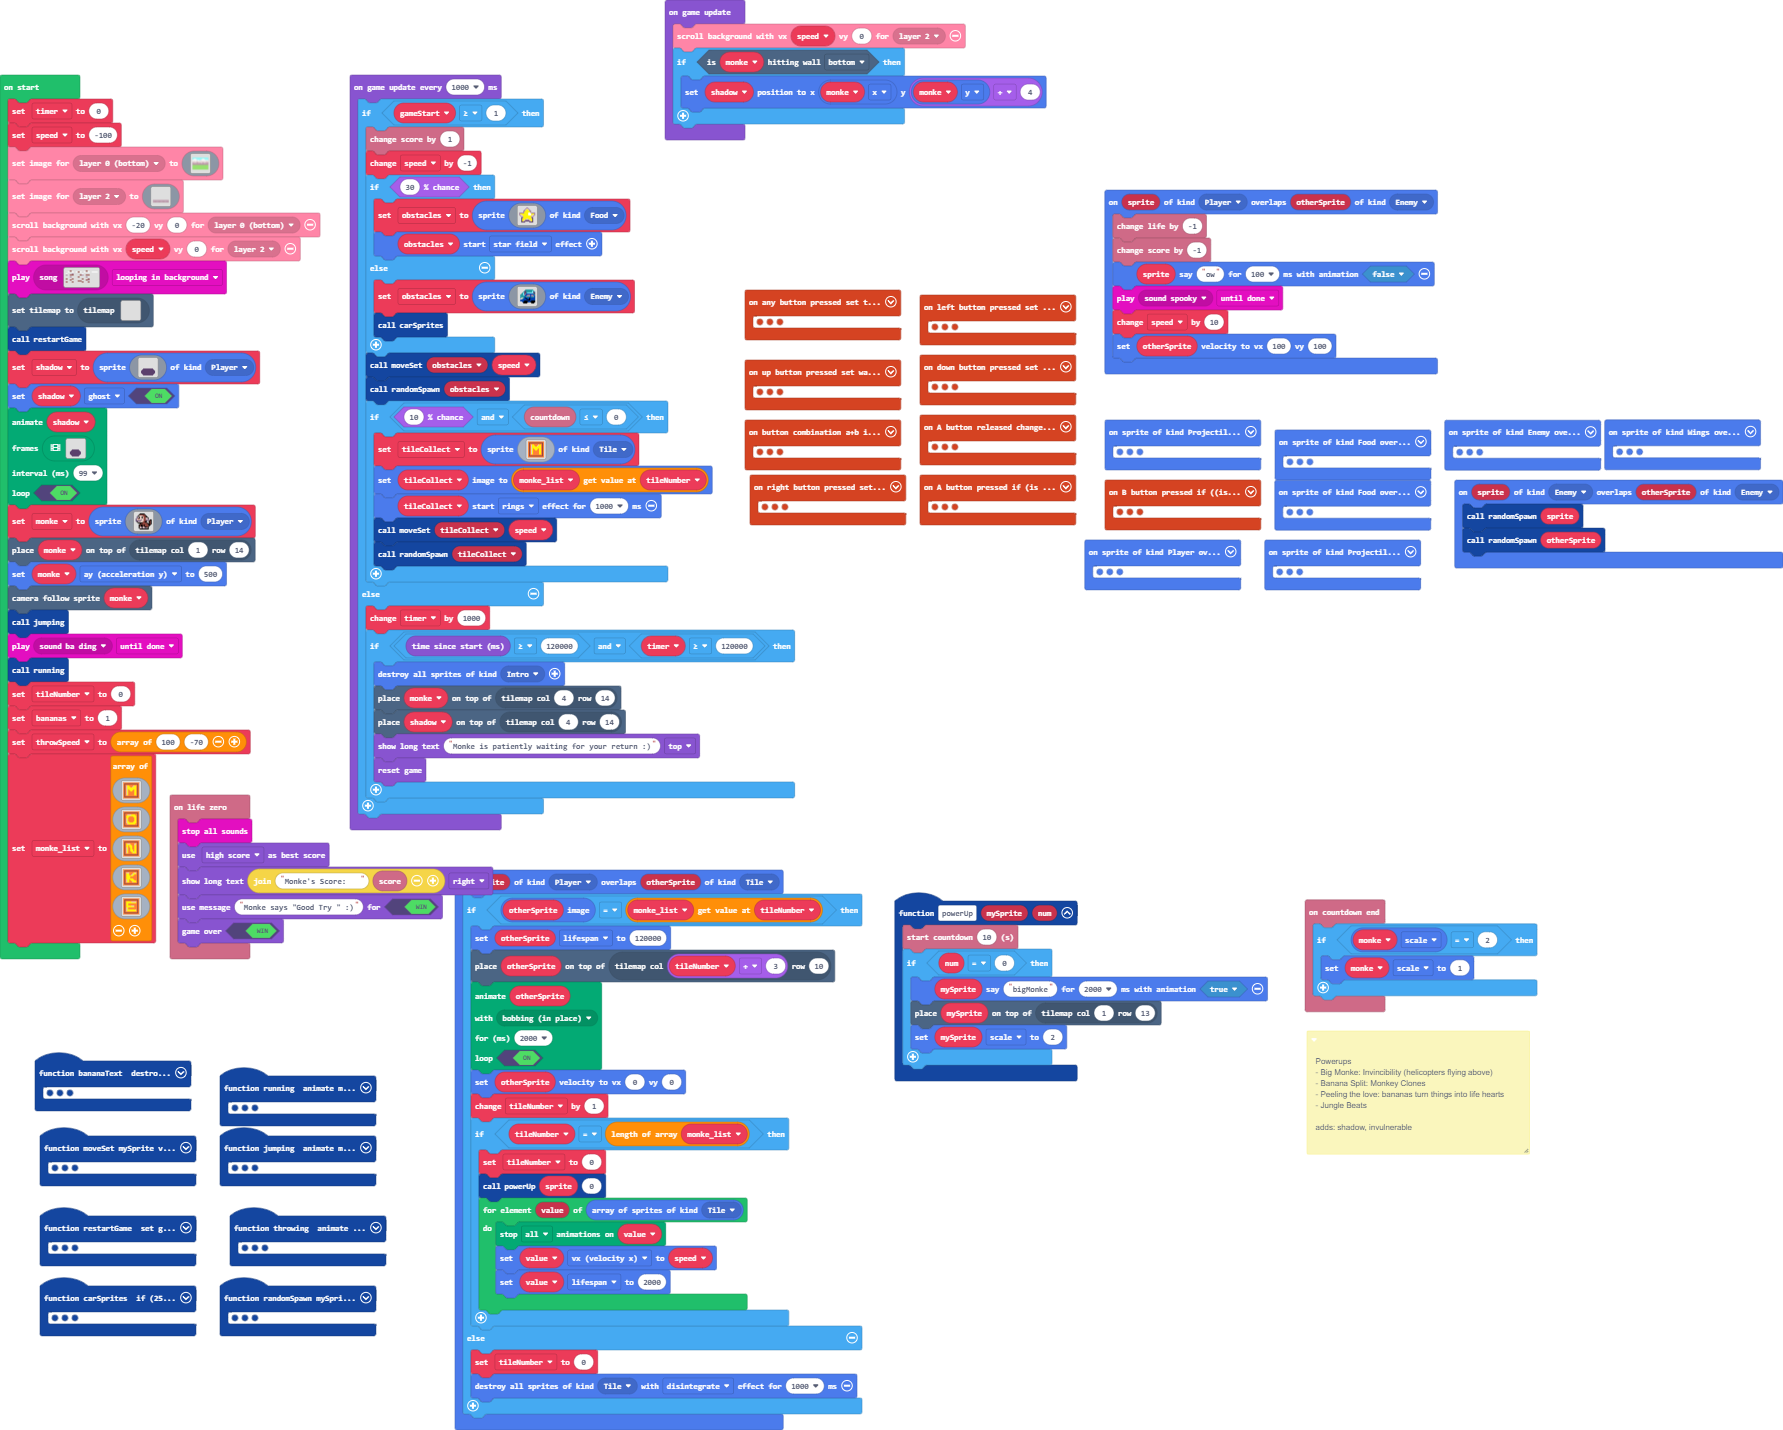
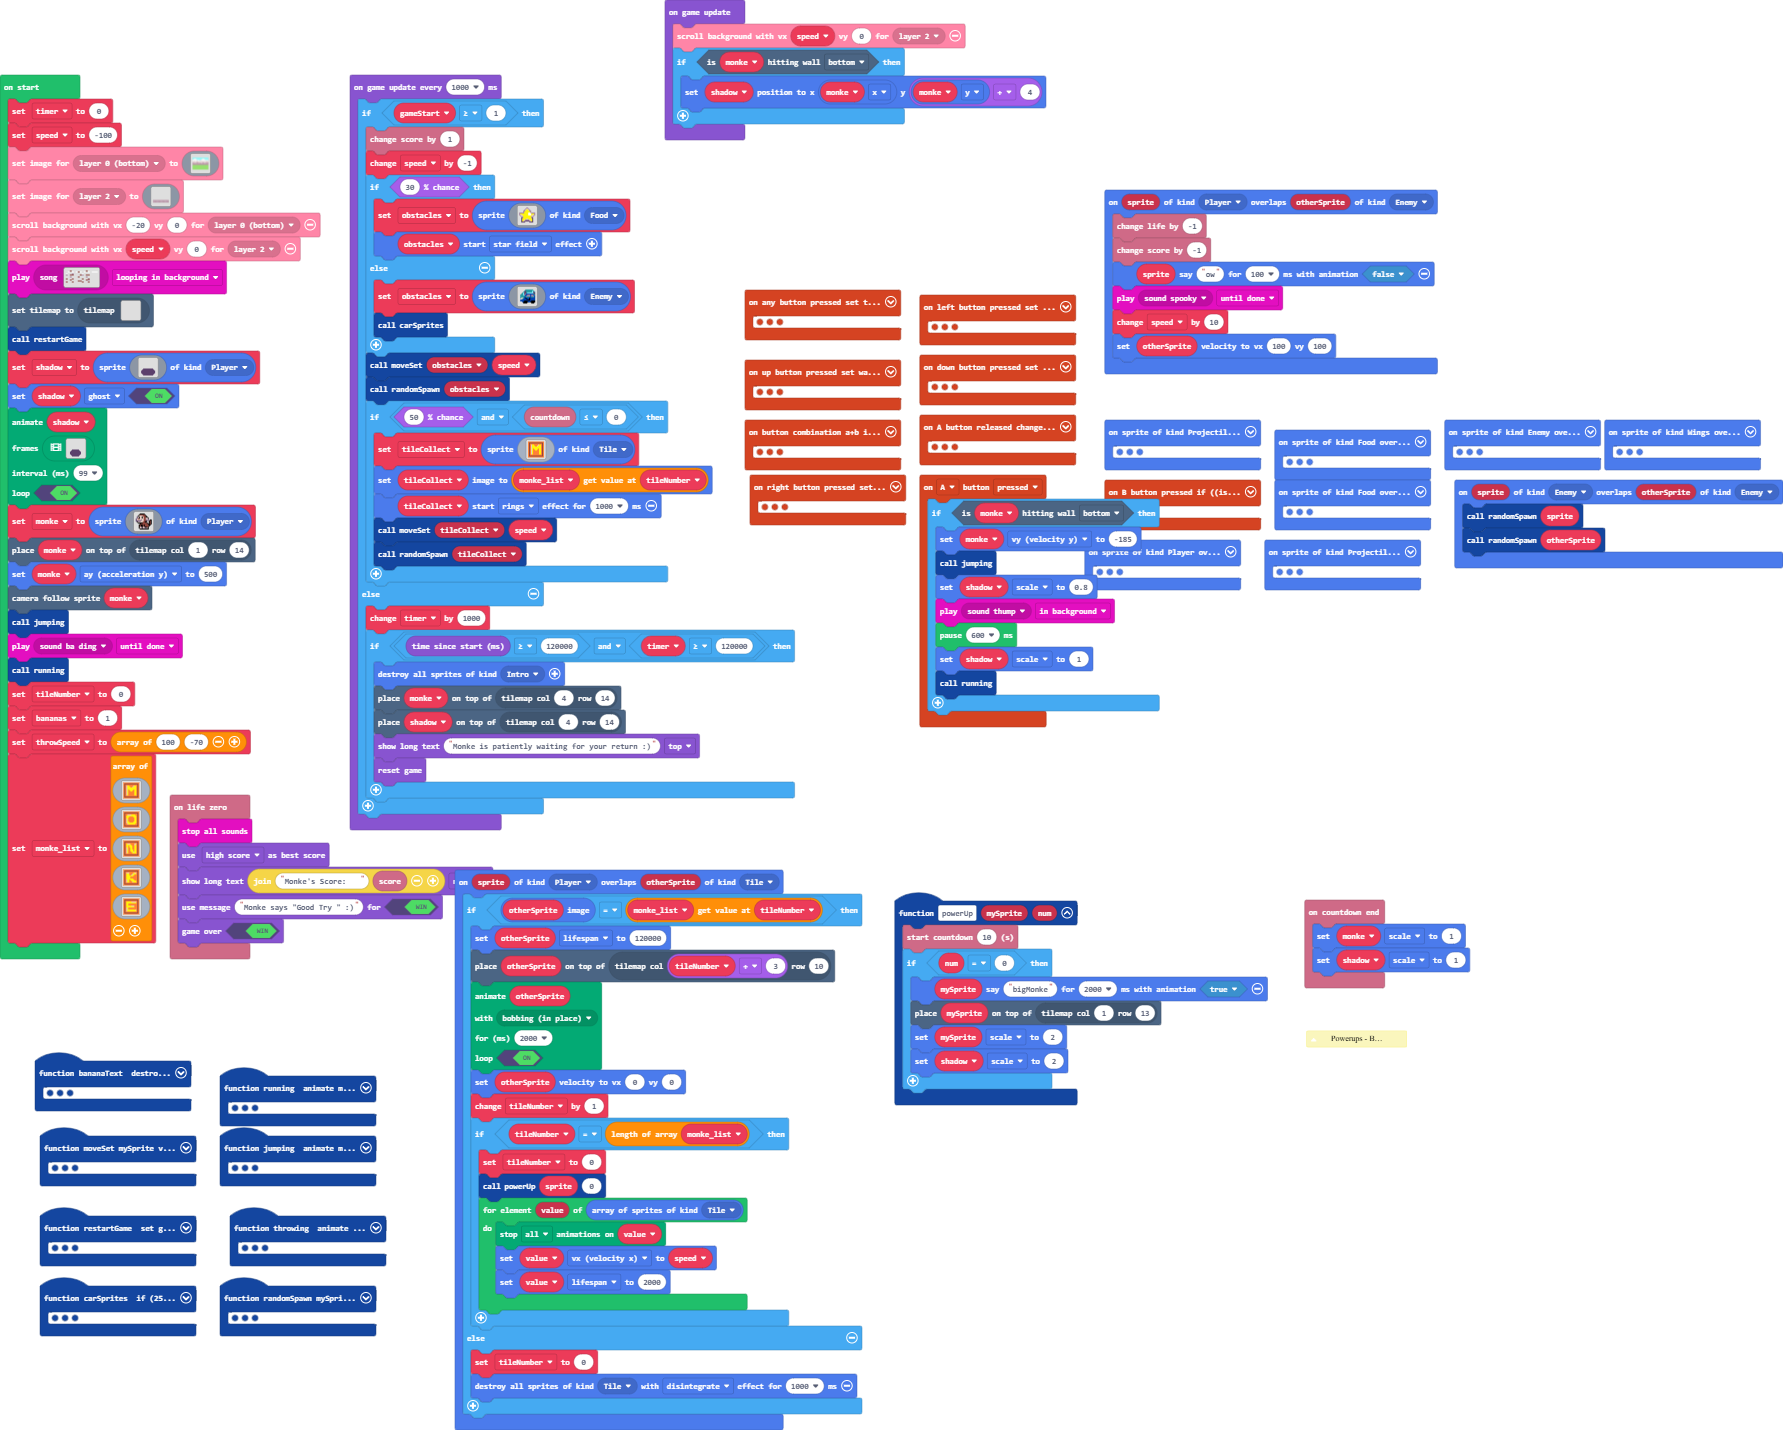
big scale not done

diff --git a/main.ts b/main.ts
@@ -195,6 +195,17 @@ function jumping () {
     false
     )
 }
+controller.A.onEvent(ControllerButtonEvent.Pressed, function () {
+    if (monke.isHittingTile(CollisionDirection.Bottom)) {
+        monke.vy = -185
+        jumping()
+        shadow.scale = 0.8
+        music.play(music.melodyPlayable(music.thump), music.PlaybackMode.InBackground)
+        pause(600)
+        shadow.scale = 1
+        running()
+    }
+})
 function carSprites () {
     if (Math.percentChance(25)) {
         animation.runImageAnimation(
@@ -650,9 +661,8 @@ function moveSet (mySprite: Sprite, velocity: number) {
     mySprite.lifespan = 3000
 }
 info.onCountdownEnd(function () {
-    if (monke.scale == 2) {
-        monke.scale = 1
-    }
+    monke.scale = 1
+    shadow.scale = 1
 })
 sprites.onOverlap(SpriteKind.Projectile, SpriteKind.Intro, function (sprite, otherSprite) {
     otherSprite.startEffect(effects.confetti, 100)
@@ -736,21 +746,11 @@ function powerUp (mySprite: Sprite, num: number) {
         mySprite.sayText("bigMonke", 2000, true)
         tiles.placeOnTile(mySprite, tiles.getTileLocation(1, 13))
         mySprite.scale = 2
+        shadow.scale = 2
     }
 }
 controller.right.onEvent(ControllerButtonEvent.Pressed, function () {
     throwSpeed = [100, -70]
-})
-controller.A.onEvent(ControllerButtonEvent.Pressed, function () {
-    if (monke.isHittingTile(CollisionDirection.Bottom)) {
-        monke.vy = -185
-        jumping()
-        shadow.scale = 0.8
-        music.play(music.melodyPlayable(music.thump), music.PlaybackMode.InBackground)
-        pause(600)
-        shadow.scale = 1
-        running()
-    }
 })
 sprites.onOverlap(SpriteKind.Wings, SpriteKind.Wings, function (sprite, otherSprite) {
     sprites.destroy(otherSprite)
@@ -1686,7 +1686,7 @@ game.onUpdateInterval(1000, function () {
         }
         moveSet(obstacles, speed)
         randomSpawn(obstacles)
-        if (Math.percentChance(10) && info.countdown() <= 0) {
+        if (Math.percentChance(50) && info.countdown() <= 0) {
             tileCollect = sprites.create(img`
                 4 4 4 4 4 4 4 4 4 4 4 4 4 4 4 4 
                 4 e e e e e e e e e e e e e e 4 
